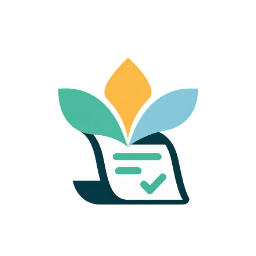
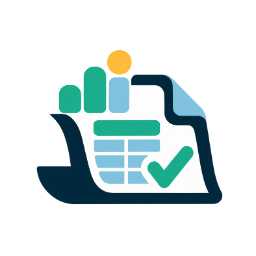
feat: rename the app to Acc Documents, with the new mark
Tab, sidebar and sign-in carry the new name; logo.webp and the PNG icons
rendered from it replace the previous artwork.

Changed region(s): [[0.125, 0.1875, 0.875, 0.8125]]

diff --git a/src/pages/LoginPage.tsx b/src/pages/LoginPage.tsx
@@ -34,7 +34,7 @@ export default function LoginPage() {
         <div className="mb-6 flex flex-col items-center gap-3 text-center">
           <img src="/logo.webp" alt="" className="h-16 w-16 object-contain" />
           <div>
-            <h1 className="text-lg font-semibold text-stone-900">เบิกบาน</h1>
+            <h1 className="text-lg font-semibold text-stone-900">Acc Documents</h1>
             <p className="mt-0.5 text-sm text-stone-500">เข้าสู่ระบบเพื่อใช้งาน</p>
           </div>
         </div>

diff --git a/src/components/Layout.tsx b/src/components/Layout.tsx
@@ -23,7 +23,7 @@ export default function Layout() {
           <span className="flex h-9 w-9 shrink-0 items-center justify-center rounded-[10px] bg-white p-1 shadow-[0_2px_8px_rgba(0,0,0,0.22)]">
             <img src="/logo.webp" alt="" className="h-full w-full object-contain" />
           </span>
-          เบิกบาน
+          Acc Documents
         </div>
         <nav className="flex flex-col gap-0.5 px-3 py-2">
           <NavLink to="/" end className={navLinkClass}>

diff --git a/index.html b/index.html
@@ -6,7 +6,7 @@
     <link rel="apple-touch-icon" href="/apple-touch-icon.png" />
     <meta name="viewport" content="width=device-width, initial-scale=1.0" />
     <meta name="theme-color" content="#12303A" />
-    <title>เบิกบาน</title>
+    <title>Acc Documents</title>
   </head>
   <body>
     <div id="root"></div>
